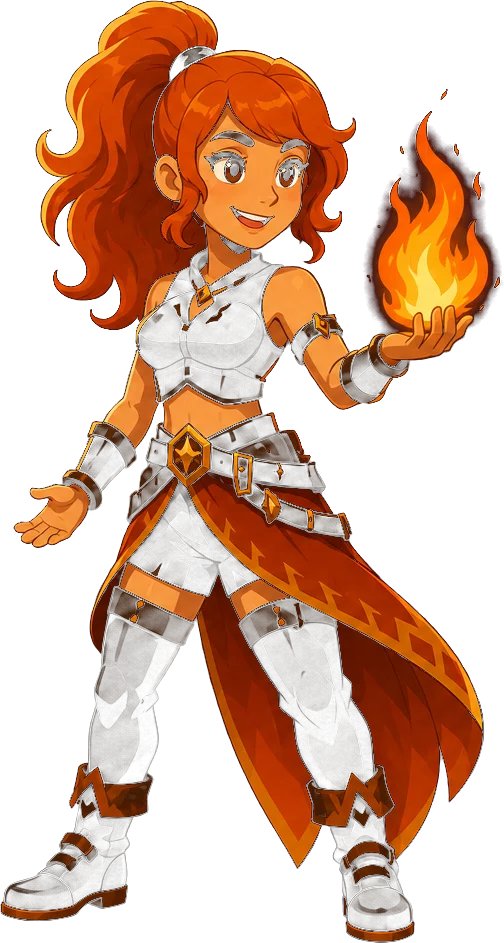
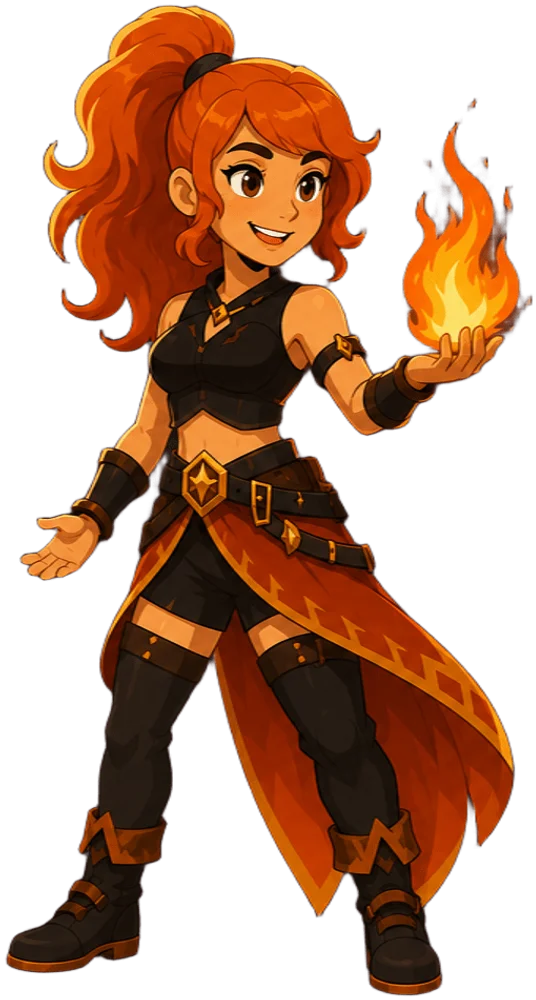
fix(frontend): corrige arte dos guardioes e enriquece secao de perfis BrainHex
Substitui os assets guardioes/*.webp (frontend) e guardioes/*.png (mobile)
pela remocao de fundo feita manualmente pela usuaria, corrigindo o bug de
calca/cabelo apagados que a remocao automatica por distancia de cor causava
em varios personagens. Normaliza a altura de recorte de todos os 7 (1000px)
para o lineup ficar visualmente consistente.

Adiciona cenario de fundo na secao "Os Guardioes da Trilha": nebulosa,
lua/sol com glow e horizonte de castelo em SVG, adaptando cor/opacidade
entre modo claro e escuro — substitui o fundo antigo (gradiente liso + poucas
estrelas), que ficava raso demais perto da arte de referencia.

Adiciona api/Procfile apontando para uvicorn app.main:app, ja que o deploy
no Render estava caindo no placeholder padrao (gunicorn your_application.wsgi,
que nao existe no projeto).

Claude-Session: https://claude.ai/code/session_01CSSvdebAY3baNHjbVgKjqE

diff --git a/frontend/src/components/BrainHexShowcase.tsx b/frontend/src/components/BrainHexShowcase.tsx
@@ -93,25 +93,80 @@ const BrainHexShowcase = () => {
           : "radial-gradient(ellipse 80% 60% at 50% 0%, #f7f0e6 0%, #ede0cc 60%, #e6d7bd 100%)",
       }}
     >
-      {/* Estrelas (so no modo escuro) */}
-      {isDark && (
-        <div className="absolute inset-0 pointer-events-none opacity-70" aria-hidden="true">
-          {STAR_POSITIONS.map((s, i) => (
-            <span
-              key={i}
-              className="absolute rounded-full bg-white animate-pulse-slow"
-              style={{
-                left: s.left,
-                top: s.top,
-                width: s.size,
-                height: s.size,
-                animationDelay: `${s.delay}s`,
-                animationDuration: `${s.duration}s`,
-              }}
-            />
-          ))}
-        </div>
-      )}
+      {/* Cenario de fundo — nebulosa + lua/sol + horizonte de castelo, para dar
+          profundidade de cena (em vez de so um gradiente radial liso). Cores e
+          intensidade adaptam ao modo claro/escuro. */}
+      <div className="absolute inset-0 pointer-events-none overflow-hidden" aria-hidden="true">
+        {/* Nuvens de nebulosa (blobs radiais desfocados, mix-blend screen no
+            escuro para um brilho aditivo tipo aurora) */}
+        <div
+          className="absolute -top-24 left-[8%] w-[38rem] h-[26rem] rounded-full blur-3xl transition-opacity duration-700"
+          style={{
+            background: isDark
+              ? "radial-gradient(ellipse, hsl(266 85% 45% / 0.5), transparent 70%)"
+              : "radial-gradient(ellipse, hsl(30 70% 80% / 0.6), transparent 70%)",
+            mixBlendMode: isDark ? "screen" : "normal",
+          }}
+        />
+        <div
+          className="absolute -top-10 right-[6%] w-[34rem] h-[24rem] rounded-full blur-3xl transition-opacity duration-700"
+          style={{
+            background: isDark
+              ? "radial-gradient(ellipse, hsl(239 80% 50% / 0.4), transparent 70%)"
+              : "radial-gradient(ellipse, hsl(266 60% 85% / 0.55), transparent 70%)",
+            mixBlendMode: isDark ? "screen" : "normal",
+          }}
+        />
+        <div
+          className="absolute top-1/3 left-1/2 -translate-x-1/2 w-[44rem] h-[20rem] rounded-full blur-3xl transition-opacity duration-700"
+          style={{
+            background: isDark
+              ? "radial-gradient(ellipse, hsl(280 60% 30% / 0.35), transparent 75%)"
+              : "radial-gradient(ellipse, hsl(45 80% 88% / 0.5), transparent 75%)",
+            mixBlendMode: isDark ? "screen" : "normal",
+          }}
+        />
+
+        {/* Lua (escuro) / sol suave (claro) */}
+        <div
+          className="absolute rounded-full transition-all duration-700"
+          style={{
+            top: isDark ? "6%" : "8%",
+            right: "14%",
+            width: isDark ? "5rem" : "6rem",
+            height: isDark ? "5rem" : "6rem",
+            background: isDark
+              ? "radial-gradient(circle at 35% 35%, #f5f0ff, #cbb9ff 60%, transparent 100%)"
+              : "radial-gradient(circle at 35% 35%, #fff8e6, #ffe2a8 60%, transparent 100%)",
+            boxShadow: isDark
+              ? "0 0 60px 20px hsl(266 85% 70% / 0.35)"
+              : "0 0 80px 30px hsl(45 90% 80% / 0.5)",
+          }}
+        />
+
+        {/* Estrelas (so no modo escuro) */}
+        {isDark && (
+          <div className="absolute inset-0 opacity-70">
+            {STAR_POSITIONS.map((s, i) => (
+              <span
+                key={i}
+                className="absolute rounded-full bg-white animate-pulse-slow"
+                style={{
+                  left: s.left,
+                  top: s.top,
+                  width: s.size,
+                  height: s.size,
+                  animationDelay: `${s.delay}s`,
+                  animationDuration: `${s.duration}s`,
+                }}
+              />
+            ))}
+          </div>
+        )}
+
+        {/* Horizonte de castelo, ancorado no rodape da secao, atras do lineup */}
+        <CastleSkyline isDark={isDark} />
+      </div>
 
       <div className="container mx-auto relative z-10">
         {/* Header + toggle claro/escuro */}
@@ -269,6 +324,30 @@ function GuardianButton({
         {profile.title.split(" ")[0]}
       </span>
     </button>
+  );
+}
+
+// Horizonte de castelo estilizado (silhueta), a mesma forma nos dois modos —
+// so muda cor/opacidade. preserveAspectRatio="none" para esticar a largura
+// toda sem distorcer demais a leitura (e um recorte decorativo, nao um logo).
+const CASTLE_SKYLINE_PATH =
+  "M0,240 L0,205 L0,185 L0,177 L16,177 L16,185 L28,185 L28,177 L44,177 L44,185 L56,185 L56,177 L72,177 L72,185 L84,185 L84,177 L100,177 L100,185 L112,185 L112,177 L128,177 L128,185 L140,185 L140,177 L156,177 L156,185 L168,185 L168,177 L184,177 L184,185 L190,185 L196,185 L196,110 L196,101 L210,101 L210,110 L220,110 L220,101 L234,101 L234,110 L244,110 L244,101 L258,101 L258,110 L264,110 L264,185 L264,177 L280,177 L280,185 L292,185 L292,177 L308,177 L308,185 L320,185 L320,177 L336,177 L336,185 L348,185 L348,177 L364,177 L364,185 L376,185 L376,177 L392,177 L392,185 L404,185 L404,177 L420,177 L420,185 L430,185 L502,185 L502,55 L496,55 L560,9 L624,55 L618,55 L618,185 L618,177 L634,177 L634,185 L646,185 L646,177 L662,177 L662,185 L674,185 L674,177 L690,177 L690,185 L702,185 L702,177 L718,177 L718,185 L730,185 L730,177 L746,177 L746,185 L758,185 L758,177 L774,177 L774,185 L760,185 L820,185 L820,90 L820,81 L834,81 L834,90 L844,90 L844,81 L858,81 L858,90 L868,90 L868,81 L882,81 L882,90 L892,90 L892,81 L906,81 L906,90 L900,90 L900,185 L900,177 L916,177 L916,185 L928,185 L928,177 L944,177 L944,185 L956,185 L956,177 L972,177 L972,185 L984,185 L984,177 L1000,177 L1000,185 L1012,185 L1012,177 L1028,177 L1028,185 L1040,185 L1116,185 L1116,75 L1110,75 L1160,29 L1210,75 L1204,75 L1204,185 L1204,177 L1220,177 L1220,185 L1232,185 L1232,177 L1248,177 L1248,185 L1260,185 L1260,177 L1276,177 L1276,185 L1288,185 L1288,177 L1304,177 L1304,185 L1316,185 L1316,177 L1332,177 L1332,185 L1344,185 L1344,177 L1360,177 L1360,185 L1372,185 L1372,177 L1388,177 L1388,185 L1400,185 L1400,177 L1416,177 L1416,185 L1428,185 L1428,177 L1444,177 L1444,185 L1440,185 L1440,205 L1440,240 Z";
+
+function CastleSkyline({ isDark }: { isDark: boolean }) {
+  return (
+    <svg
+      viewBox="0 0 1440 240"
+      preserveAspectRatio="none"
+      className="absolute bottom-0 left-0 w-full h-32 sm:h-44 md:h-52 transition-opacity duration-700"
+      style={{ opacity: isDark ? 0.9 : 0.35 }}
+    >
+      <path
+        d={CASTLE_SKYLINE_PATH}
+        fill={isDark ? "hsl(258 45% 7%)" : "hsl(30 30% 62%)"}
+        stroke={isDark ? "hsl(266 70% 45% / 0.5)" : "hsl(30 40% 45% / 0.4)"}
+        strokeWidth="1.5"
+      />
+    </svg>
   );
 }
 
